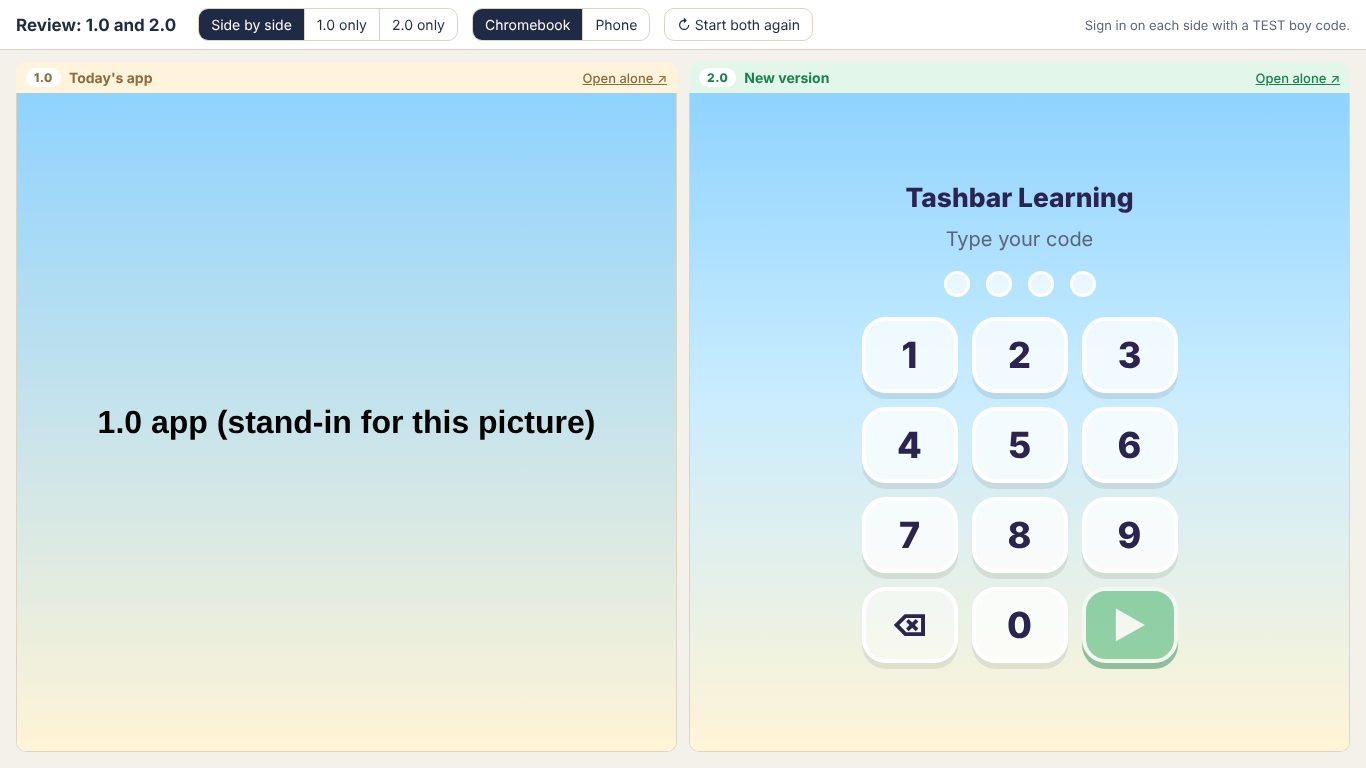
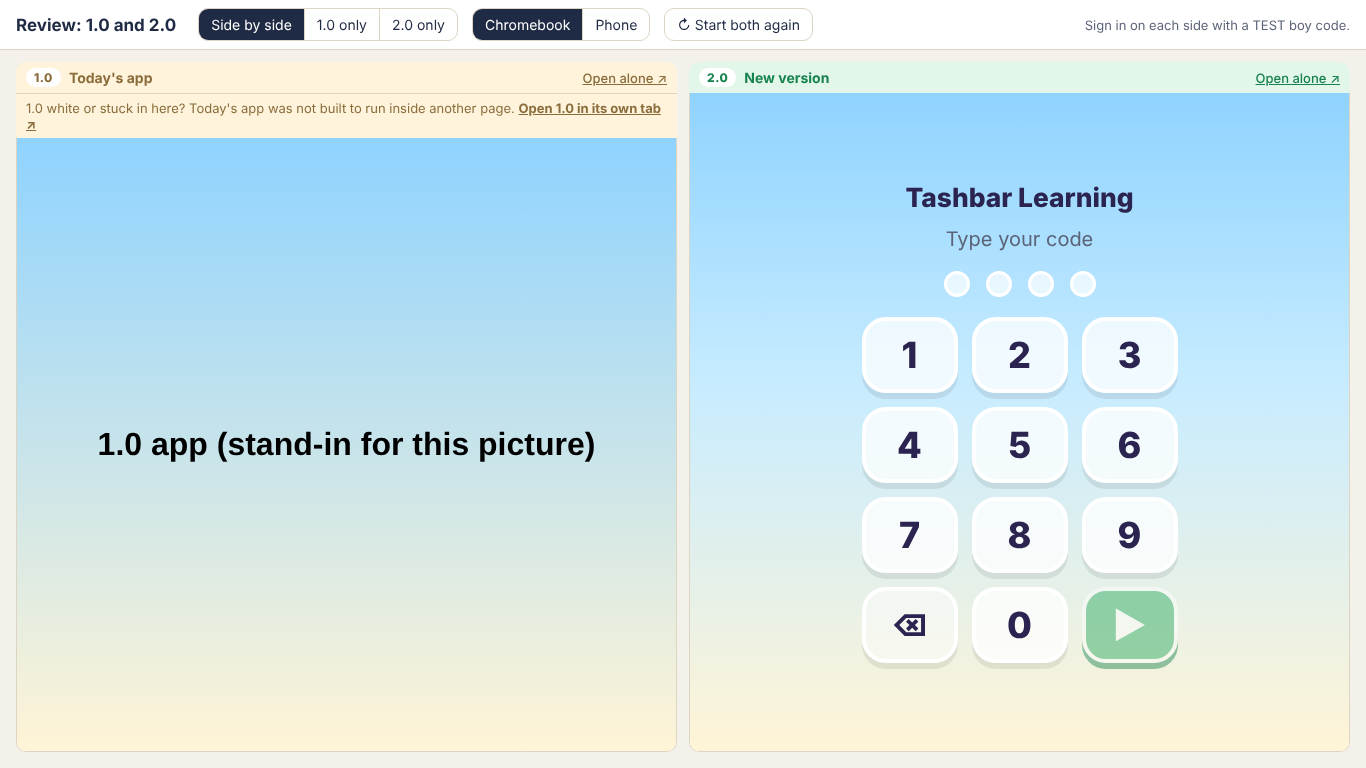
2.0 review page: a clear 'open 1.0 in its own tab' when today's app stays white inside the page
Claude-Session: https://claude.ai/code/session_01F5TiU1EZefkTuvstAdCKFC

Changed region(s): [[0.0, 0.0938, 0.5227, 0.1875], [0.0615, 0.5312, 0.4612, 0.5938]]

diff --git a/v2/app/compare/index.html b/v2/app/compare/index.html
@@ -29,6 +29,7 @@ main.one{ grid-template-columns:1fr; }
 .label{ display:flex; align-items:center; gap:8px; font-weight:700; font-size:14px; padding:6px 10px; border-radius:10px 10px 0 0; }
 .label .tag{ font-size:12px; font-weight:800; letter-spacing:.04em; padding:2px 8px; border-radius:999px; background:var(--card); }
 .label .open{ margin-left:auto; font-weight:500; font-size:13px; color:inherit; }
+.tip{ font-size:13px; padding:6px 10px; background:var(--oldbg); color:var(--old); border-top:1px solid var(--line); } .tip a{ color:inherit; font-weight:700; }
 .old .label{ background:var(--oldbg); color:var(--old); } .new .label{ background:var(--newbg); color:var(--new); }
 .frame{ flex:1; min-height:0; display:flex; justify-content:center; background:var(--card); border:1px solid var(--line); border-top:0; border-radius:0 0 10px 10px; overflow:auto; }
 .frame iframe{ width:100%; height:100%; border:0; background:#fff; }
@@ -57,6 +58,7 @@ main.one{ grid-template-columns:1fr; }
 <main id="m">
   <section class="side old" aria-label="1.0, today's app">
     <div class="label"><span class="tag">1.0</span> Today's app <a class="open" id="oa" target="_blank" rel="noopener">Open alone ↗</a></div>
+    <div class="tip">1.0 white or stuck in here? Today's app was not built to run inside another page. <a id="oa2" target="_blank" rel="noopener">Open 1.0 in its own tab ↗</a></div>
     <div class="frame"><iframe id="fa" title="1.0, today's app" allow="autoplay; fullscreen"></iframe></div>
   </section>
   <section class="side new" aria-label="2.0, the new version">
@@ -72,7 +74,7 @@ main.one{ grid-template-columns:1fr; }
   function safe(p) { p = String(p || '').replace(/^\/+/, ''); return /^[A-Za-z0-9_\-\/?=&.]*$/.test(p) && p.indexOf('compare') !== 0 && p.indexOf('..') < 0 ? p : ''; }
   var a = OLD + safe(q.get('a')), b = NEW + safe(q.get('b'));
   var fa = document.getElementById('fa'), fb = document.getElementById('fb'), m = document.getElementById('m');
-  document.getElementById('oa').href = a; document.getElementById('ob').href = b;
+  document.getElementById('oa').href = a; document.getElementById('oa2').href = a; document.getElementById('ob').href = b;
   function load() { fa.src = a; fb.src = b; }
   load();
   if (window.matchMedia && matchMedia('(max-width:900px)').matches) setTimeout(function () { var t = document.querySelector('[data-show="new"]'); if (t) t.click(); }, 0);
